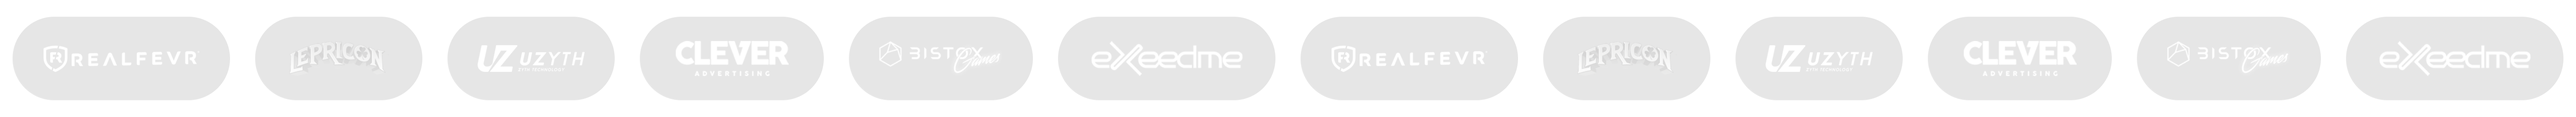
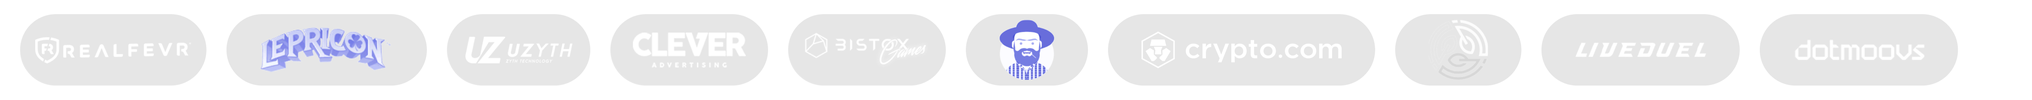
typo and add new projs

Changed region(s): [[0.0, 0.1167, 1.0, 0.875]]

diff --git a/pages/about.tsx b/pages/about.tsx
@@ -7,7 +7,7 @@ import CompanyMember from '../components/company-member';
 import moshmageAvatar from '../assets/moshmage-avatar.jpg';
 import luisClarkAvatar from '../assets/luisclark-avatar.jpg';
 import rodrigoAvatar from '../assets/rodrigo-avatar.png';
-import nunoCorreiaAvatar from '../assets/nono-avatar.jpeg';
+import nunoCorreiaAvatar from '../assets/nuno-avatar.jpeg';
 import Header from '../components/header';
 
 
